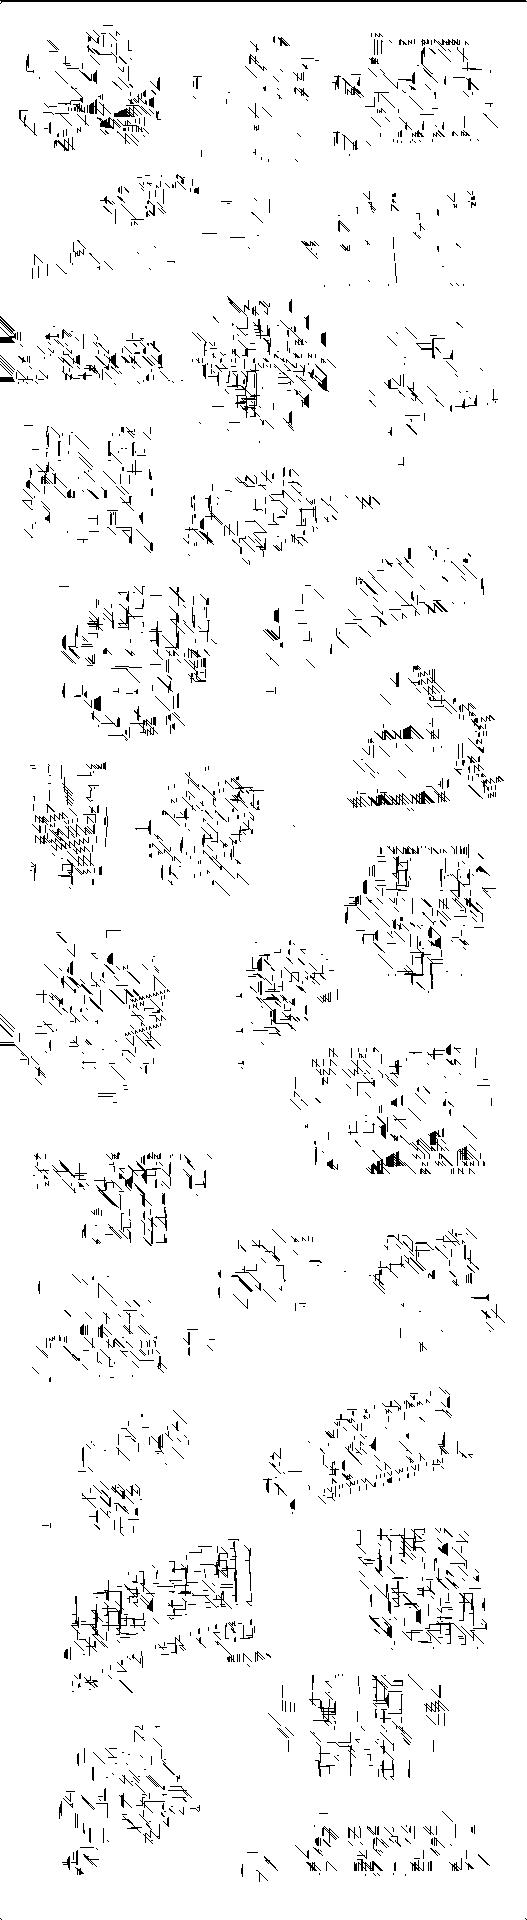
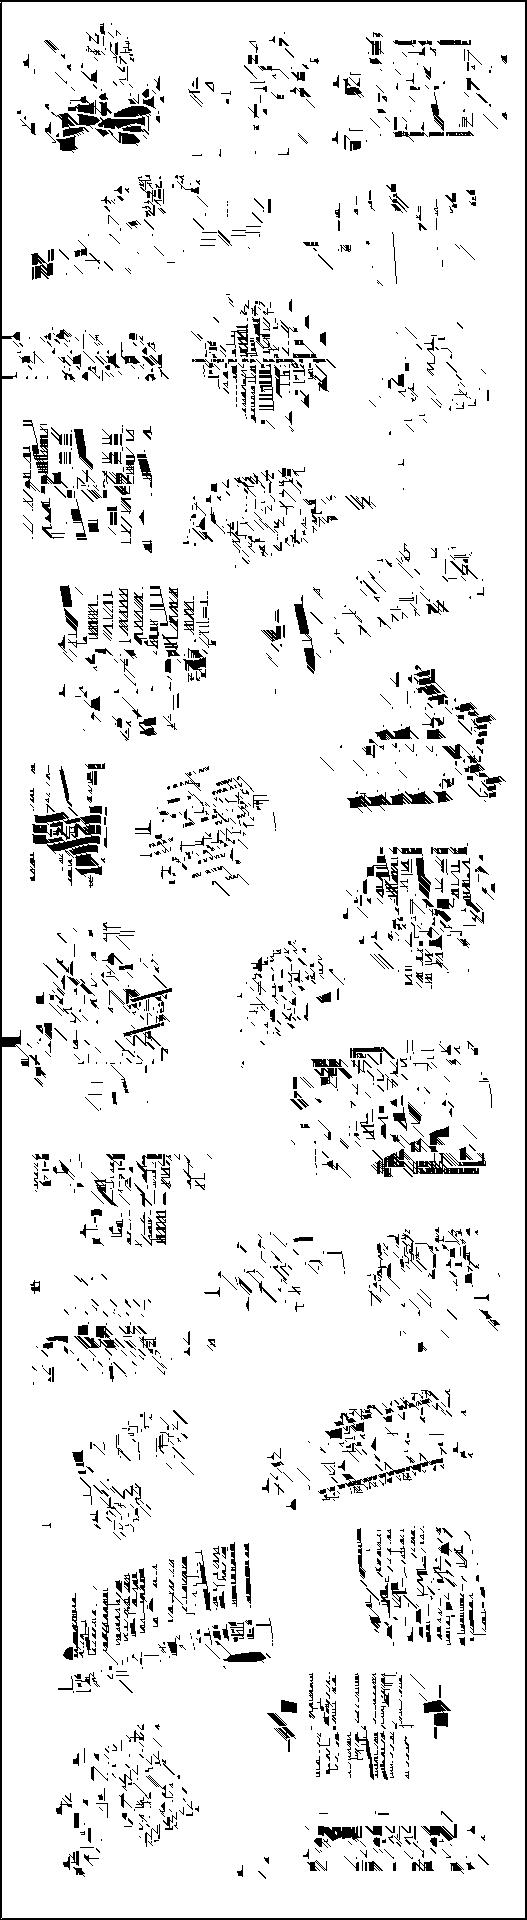
fix canny follow new dir_matrix

diff --git a/src/main.py b/src/main.py
@@ -9,7 +9,7 @@ from src import swt_related
 import numpy as np
 from src import img_handler
 ip = "..\\slogans.jpg"
-op = "..\\slogans_edge2.jpg"
+op = "..\\slogans_swt.jpg"
 # ip = "..\\sunset_winter.jpg"
 # op = "..\\sunset_winter_edge.jpg"
 
@@ -22,8 +22,8 @@ def realMain():
     initiateMask()
     img = readImage(ip)
     gray_matrix = savePixelGrayValueToMatrix(img)
-    # gray_matrix = smoothingAvg(gray_matrix, 1)
-    # gray_matrix = smoothingAvg(gray_matrix, 1)
+    gray_matrix = smoothingAvg(gray_matrix, 1)
+    gray_matrix = smoothingAvg(gray_matrix, 1)
     # gray_matrix = smoothingAvg(gray_matrix, 1)
     # gray_matrix = smoothingAvg(gray_matrix, 1)
     # gray_matrix = smoothingAvg(gray_matrix, 1)
@@ -37,22 +37,22 @@ def realMain():
     directionMatrix = getDirectionMatrix(horizontalGradientMatrix, verticalGradientMatrix)
     edgePoints = cannyGetEdgePoints(magnitudeMatrix, directionMatrix, img.size[0], False)
 
-    edgeImg = Image.new("1", img.size, 255)
-    pix = edgeImg.load()
-    for id in edgePoints:
-        location = from1dTo2d(id, img.size[0])
-        pix[location[0][1], location[0][0]] = 0
-    edgeImg.save(op)
-
-
-
-    # swtMatrix = swt_related.swt(edgePoints,directionMatrix)
-    # pixelsInText = np.where(np.logical_and(np.greater_equal(swtMatrix,swt_related.small_threshold),np.greater_equal(swt_related.big_threshold,swtMatrix)))
     # edgeImg = Image.new("1", img.size, 255)
     # pix = edgeImg.load()
-    # for i in range(pixelsInText[0].size):
-    #     pix[int(pixelsInText[1][i]), int(pixelsInText[0][i])] = 0
+    # for id in edgePoints:
+    #     location = from1dTo2d(id, img.size[0])
+    #     pix[location[0][1], location[0][0]] = 0
     # edgeImg.save(op)
+
+
+
+    swtMatrix = swt_related.swt(edgePoints,directionMatrix)
+    pixelsInText = np.where(np.logical_and(np.greater_equal(swtMatrix,swt_related.small_threshold),np.greater_equal(swt_related.big_threshold,swtMatrix)))
+    edgeImg = Image.new("1", img.size, 255)
+    pix = edgeImg.load()
+    for i in range(pixelsInText[0].size):
+        pix[int(pixelsInText[1][i]), int(pixelsInText[0][i])] = 0
+    edgeImg.save(op)
     print("--- %s seconds ---" % (time.clock() - start))
 
 def testMain():

diff --git a/src/canny_related.py b/src/canny_related.py
@@ -2,7 +2,7 @@ import numpy as np
 from src import utils
 horizontalMask = np.empty(shape=(3, 3))
 verticalMask = np.empty(shape=(3, 3))
-bigThreshold = 70
+bigThreshold = 150
 smallThreshold = 20
 
 
@@ -67,16 +67,16 @@ def cannyGetEdgePoints(magMatrix, dirMatrix, width, useSmallThreshold):
     # apply big threshold
     gt = np.where(mag >= bigThreshold)
     for id in gt[0]:
-        if (dir[id] <= 22.5 or dir[id] > 157.5):
+        if (dirInWhichBucket(dir[id]) == 4):
             if (isHorMax(id, mag, width)):
                 points.append(id)
-        elif (dir[id] <= 67.5):
+        elif (dirInWhichBucket(dir[id]) == 1):
             if (isBackwardSlashMax(id, mag, width)):
                 points.append(id)
-        elif (dir[id] <= 112.5):
+        elif (dirInWhichBucket(dir[id]) == 3):
             if (isVerMax(id, mag, width)):
                 points.append(id)
-        elif (dir[id] <= 157.5):
+        elif (dirInWhichBucket(dir[id]) == 2):
             if (isForwardSlashMax(id, mag, width)):
                 points.append(id)
 
